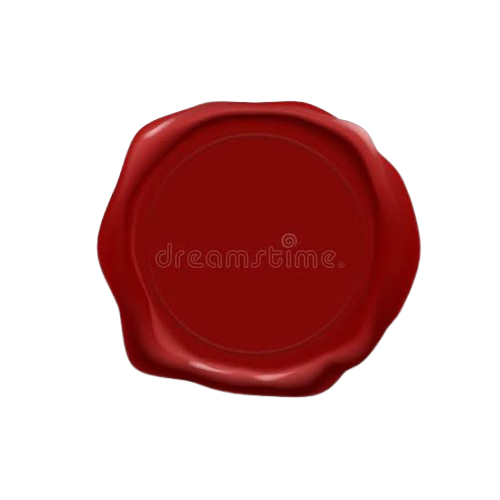
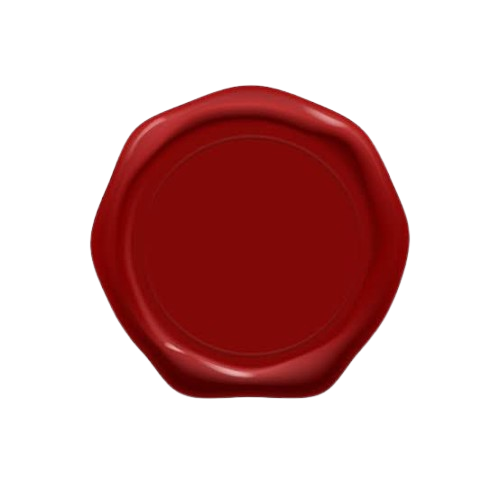
Se agrega sello en modal de entrada

Changed region(s): [[0.18, 0.15, 0.84, 0.81], [0.3, 0.45, 0.69, 0.54]]

diff --git a/Diseno.scss b/Diseno.scss
@@ -39,9 +39,9 @@ $shadow-titulo-movil: 3px 3px 0 $color-negro;
 
     .Sello{
         position: absolute;
-        top: -18px;
-        left: -18px;
-        width: clamp(55px, 8vw, 85px);
+        top: 18px;
+        left: 18px;
+        width: 10px;
         height: auto;
         z-index: 2;
     }
